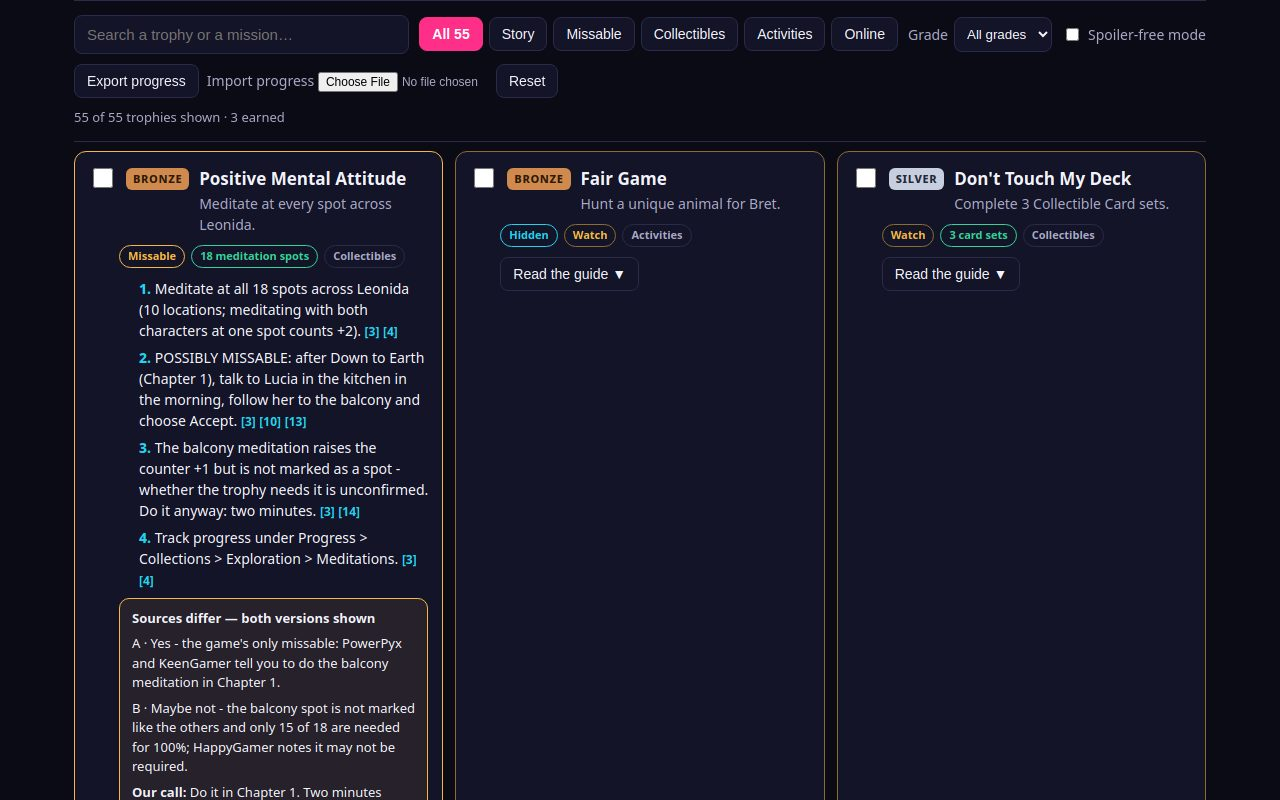
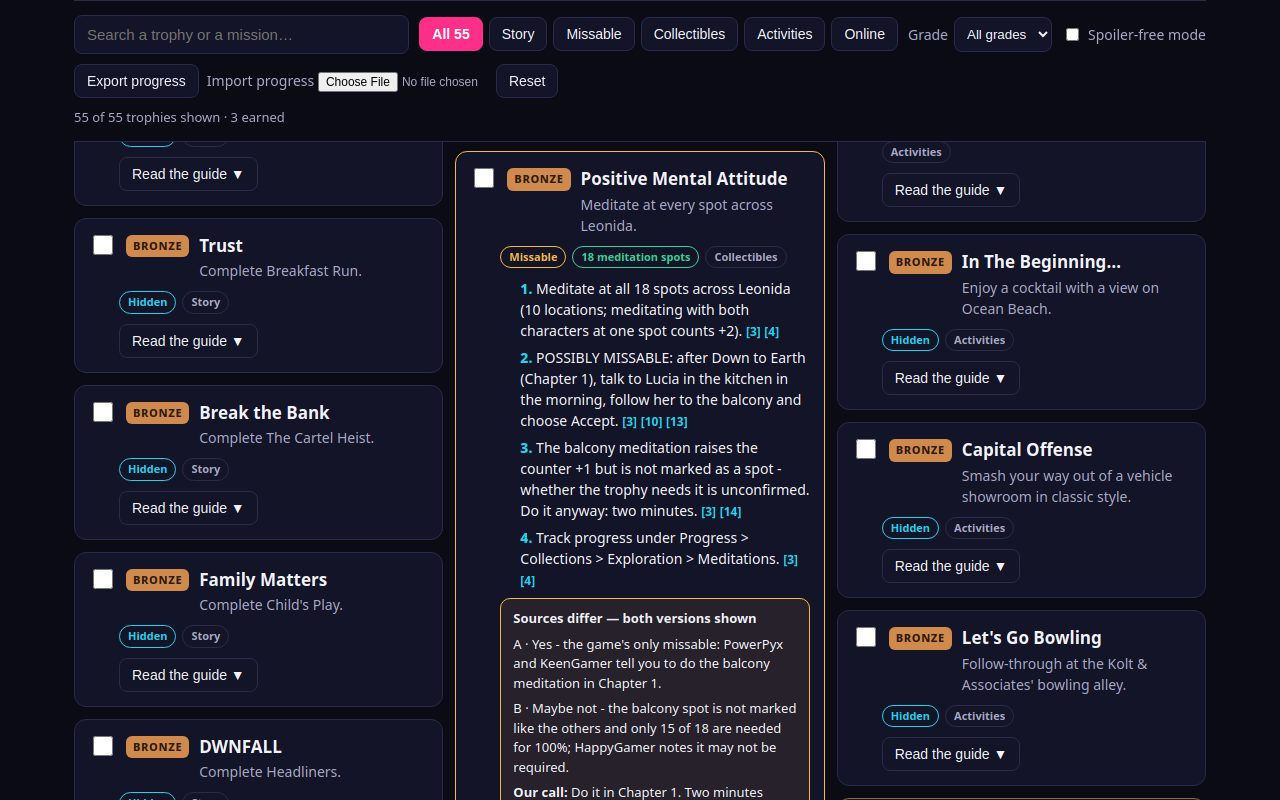
Leonida Trophy Guide v2: 55 trophies, claim-level citations (120/120 from 42 sources), missable windows grid, sources matrix, roadmap with hours, owner.json

diff --git a/app/style.css b/app/style.css
@@ -153,8 +153,8 @@ select { background: var(--panel); color: var(--text); border: 1px solid var(--l
 .import { color: var(--muted); font-size: 14px; cursor: pointer; }
 .import input { font-size: 12px; max-width: 170px; }
 .count { width: 100%; margin: 0; color: var(--muted); font-size: 13px; }
-.grid { padding: 20px 0 8px; display: grid; grid-template-columns: repeat(auto-fill, minmax(340px, 1fr)); gap: 12px; }
-.card { background: var(--panel); border: 1px solid var(--line); border-radius: 12px; padding: 14px; }
+.grid { padding: 20px 0 8px; columns: 3; column-gap: 12px; }
+.card { background: var(--panel); border: 1px solid var(--line); border-radius: 12px; padding: 14px; break-inside: avoid; margin-bottom: 12px; }
 .card.earned { border-color: var(--green); }
 .card.missable { border-color: var(--gold); }
 .card.watchcard { border-color: #8a6d2f; }
@@ -198,7 +198,7 @@ select { background: var(--panel); color: var(--text); border: 1px solid var(--l
 .dispute-box { background: rgba(245, 185, 66, 0.08); border: 1px solid var(--gold); border-radius: 10px; padding: 10px 12px; margin: 8px 0; font-size: 13px; }
 .dispute-box p { margin: 0 0 6px; }
 .dispute-box p:last-child { margin: 0; }
-.empty { grid-column: 1 / -1; color: var(--muted); background: var(--panel); border: 1px dashed var(--line); border-radius: 12px; padding: 20px; }
+.empty { column-span: all; color: var(--muted); background: var(--panel); border: 1px dashed var(--line); border-radius: 12px; padding: 20px; }
 .tablewrap { overflow-x: auto; margin: 12px 0; border: 1px solid var(--line); border-radius: 12px; }
 .watchgrid, .matrix { border-collapse: collapse; width: 100%; background: var(--panel); font-size: 13px; }
 .watchgrid th, .watchgrid td, .matrix th, .matrix td { border: 1px solid var(--line); padding: 6px 8px; text-align: left; }
@@ -225,5 +225,5 @@ select { background: var(--panel); color: var(--text); border: 1px solid var(--l
 footer { max-width: 1180px; margin: 0 auto; padding: 20px 24px; color: var(--muted); font-size: 13px; border-top: 1px solid var(--line); }
 @media (max-width: 640px) {
   h1 { font-size: 32px; }
-  .grid { grid-template-columns: 1fr; }
+  .grid { columns: 1; }
 }
